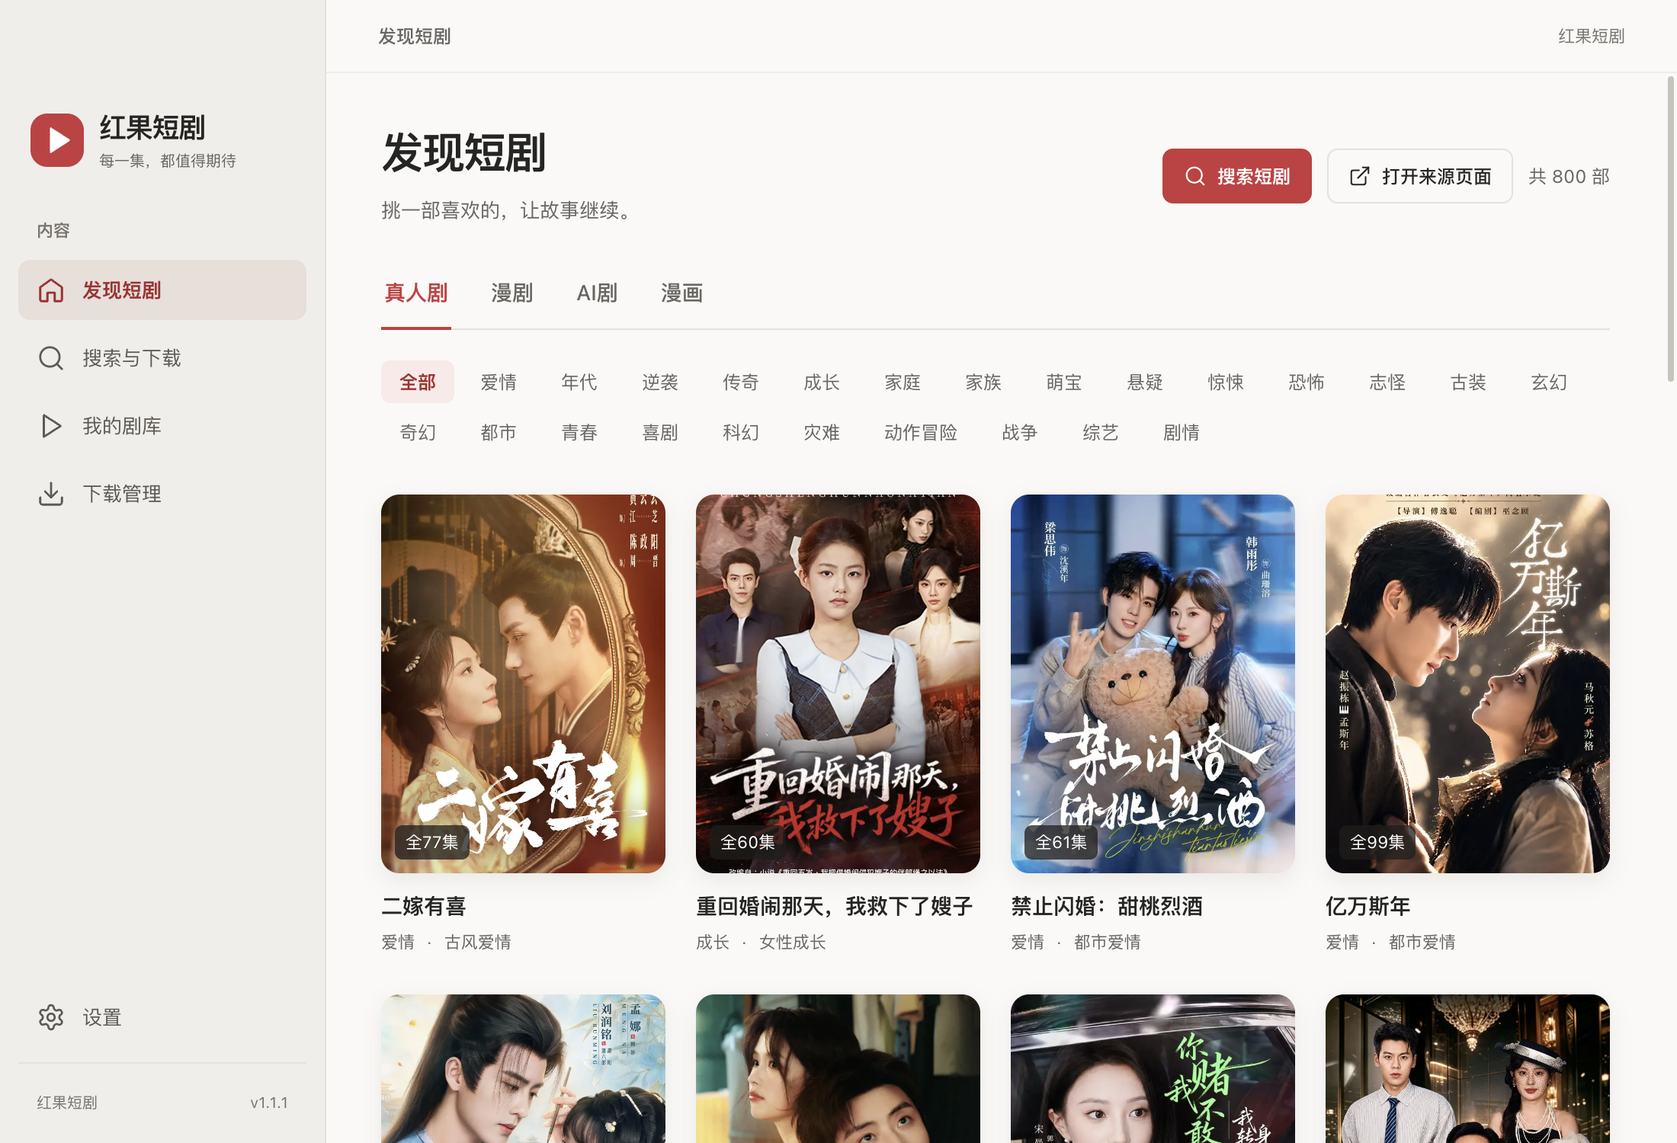
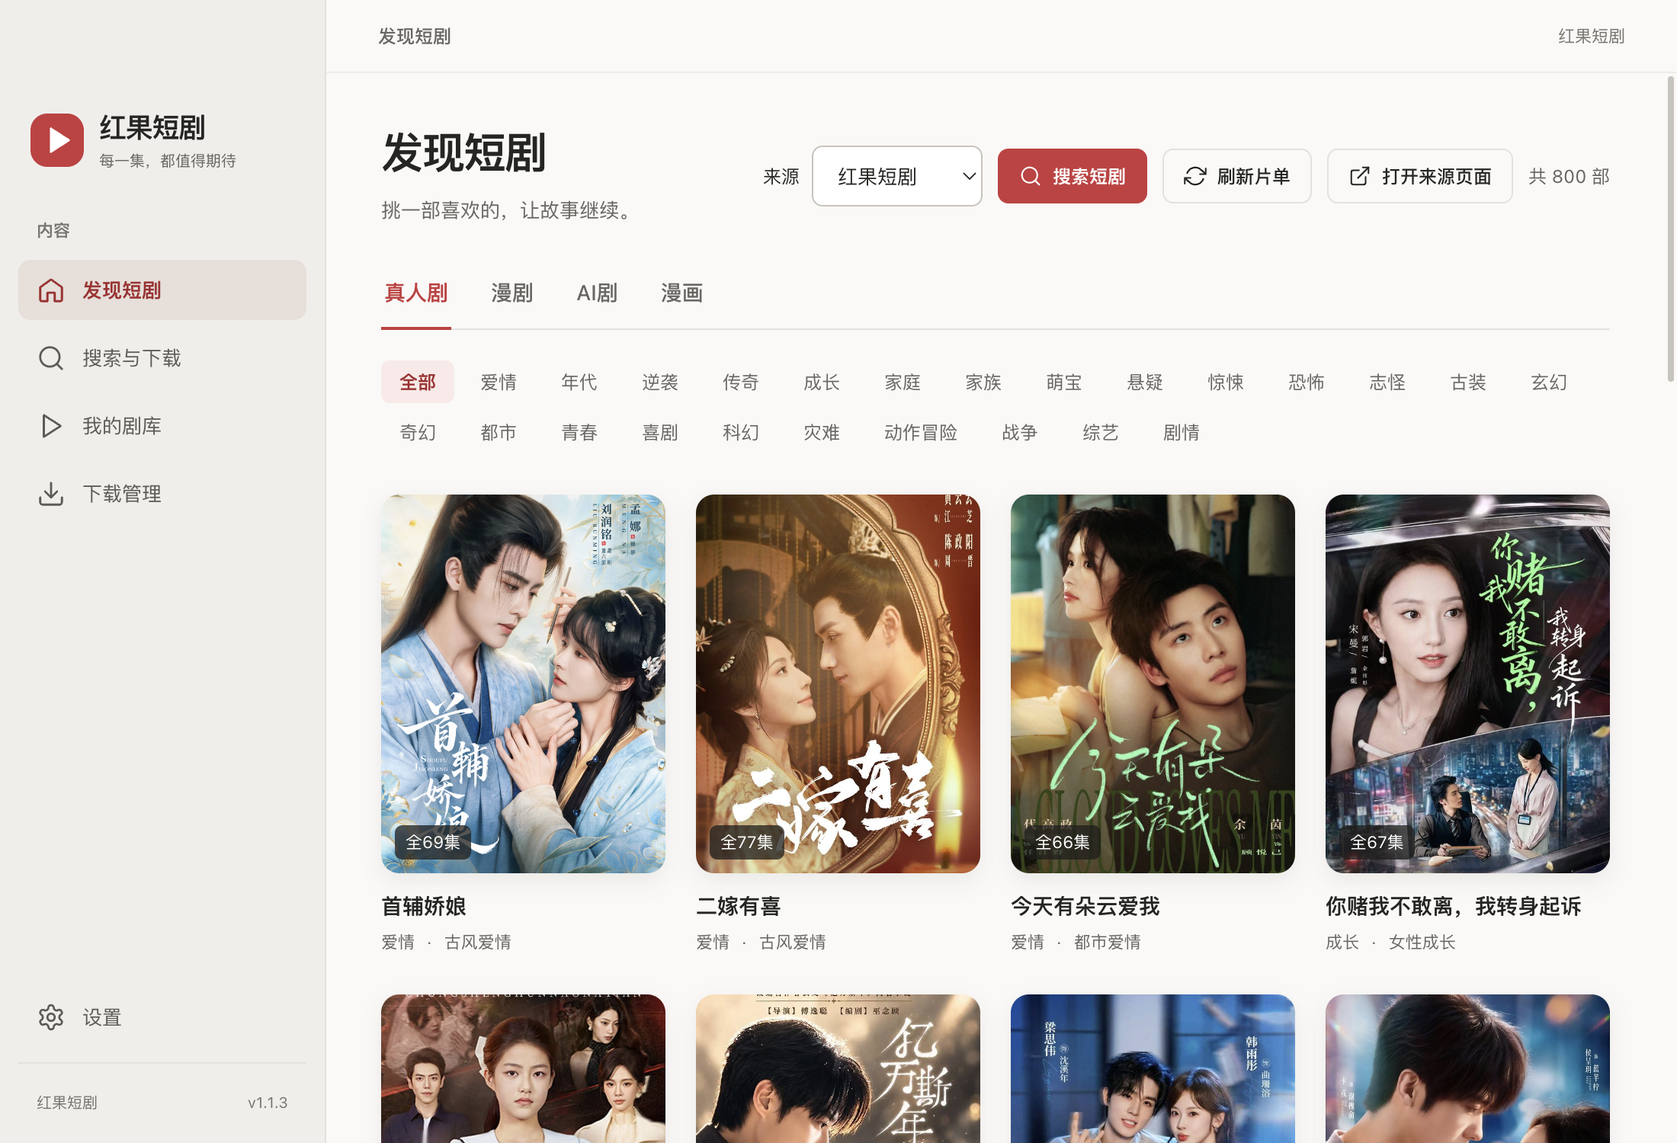
Present Mac app with detailed product guide and current screenshots

diff --git a/README.md b/README.md
@@ -1,43 +1,154 @@
-# 红果短剧 Mac版
+<p align="center">
+  <img src="build/icon.png" alt="红果短剧 Mac 应用图标" width="112" height="112">
+</p>
 
-面向 Apple Silicon Mac 的开源短剧桌面工具，基于 Electron、React 和 Node.js。
-支持红果与西饭两个独立来源，浏览、搜索、按集下载、播放与本地文件管理。
-网页未提供片源的分集会自动尝试本地签名的 App 接口与二次取址。
-不依赖第三方签名服务器或账号 Cookie；可用性仍取决于源服务。
+<h1 align="center">红果短剧 · Mac 短剧播放器与下载器</h1>
 
-这是社区修改版本，**不是红果官方客户端，也未获平台官方背书**。
-视频清晰度取决于接口返回的片源，不承诺固定分辨率。
+<p align="center">
+  在 Mac 上发现短剧、按集下载、接着观看，把已下载的分集合并为一个视频。
+</p>
 
-[下载 Mac 安装包](https://github.com/jackotom/hongguo-drama-mac/releases/latest) · [项目源码](https://github.com/jackotom/hongguo-drama-mac) · [修改声明](NOTICE) · [GPL-3.0](LICENSE)
+<p align="center">
+  <a href="https://github.com/jackotom/hongguo-drama-mac/releases/tag/v1.1.3"><img alt="版本 1.1.3" src="https://img.shields.io/badge/release-v1.1.3-c8383d?style=flat-square"></a>
+  <img alt="macOS 13 或更新版本" src="https://img.shields.io/badge/macOS-13%2B-252523?style=flat-square">
+  <img alt="Apple Silicon arm64" src="https://img.shields.io/badge/Apple_Silicon-arm64-252523?style=flat-square">
+  <a href="LICENSE"><img alt="GPL-3.0 许可证" src="https://img.shields.io/badge/license-GPL--3.0-555555?style=flat-square"></a>
+  <a href="https://github.com/jackotom/hongguo-drama-mac/releases/tag/v1.1.3"><img alt="v1.1.3 Developer ID 签名并通过 Apple 公证" src="https://img.shields.io/badge/v1.1.3-Developer_ID_%2B_Notarized-33745c?style=flat-square"></a>
+</p>
 
-![Mac 浏览界面](docs/screenshots/macos-browse.png)
+<p align="center">
+  <a href="https://github.com/jackotom/hongguo-drama-mac/releases/latest"><strong>下载 Mac 版</strong></a> ·
+  <a href="https://github.com/jackotom/hongguo-drama-mac">查看源码</a> ·
+  <a href="https://github.com/jackotom/hongguo-drama-mac/issues">反馈问题</a> ·
+  <a href="#安装与开始使用">安装说明</a>
+</p>
 
-## 功能
+**红果短剧**是一款面向 Apple Silicon 的开源 Mac 短剧播放器与下载器。红果与西饭作为两个独立来源，提供分类浏览、剧名搜索、选集下载和本地剧库；播放进度、下载队列与合并导出都在同一个桌面应用里管理。
 
-- **浏览**：按分类与题材查看剧集，分页浏览，打开详情查看集数。
-- **搜索**：按剧名查找，或粘贴分享链接、剧集 ID 解析。
-- **按集下载**：选择单集、多集或区间，管理并发、暂停和失败重试。
-- **播放**：在线播放与本地播放，支持连播、进度记录及兼容转码。
-- **合并**：编码参数一致时快速拼接；混合 H.264/HEVC 等分集先统一编码再合并。
-- **清理**：查看磁盘占用，删除单集、整部剧及转码缓存。
-- **代理**：提供跟随系统、手动代理与直连设置。
+这是社区维护的修改版本，**不是红果或西饭官方客户端，也未获平台官方背书**。Apple 公证是发行包的安全检查，不代表 App Store 审核或内容授权。
 
-明文片源按需流式加载；App 加密片源通过内置 FFmpeg 准备，临时文件随后清理。
-自动选择 H.264/HEVC 兼容轨道，不使用不受支持的 ByteVC2。分集缓存 60 秒，播放地址缓存 30 秒，同一请求合并处理。
-以上是当前代码具备的功能。网络服务与片源状态会变化，实测范围见下文。
+![红果短剧 Mac 播放器与下载器：v1.1.3 红果来源的分类、题材和海报目录](docs/screenshots/macos-browse.png)
 
-## 环境要求
+<p align="center"><sub>v1.1.3 实际应用界面 · 红果来源</sub></p>
 
-| 用途 | 要求 |
+## 安装与开始使用
+
+需要 **macOS 13 或更新版本、Apple Silicon（M 系列）Mac**。当前发行包为 arm64，应用已内置所需媒体工具，使用时无需安装 Node.js、Homebrew 或 FFmpeg。
+
+1. 打开 [最新版本下载页](https://github.com/jackotom/hongguo-drama-mac/releases/latest)，在 **Assets** 中下载 `.dmg` 安装包。当前版本文件名为 `Hongguo-1.1.3-mac-arm64.dmg`。
+2. 打开 DMG，把「红果短剧」拖入「应用程序」，再从「应用程序」启动。
+3. 在「设置」中选择下载目录；进入「发现短剧」选择来源，或在「搜索与下载」中查找剧名，打开详情后选择分集。
+
+**正式 v1.1.3 发行包已完成 Developer ID 签名与 Apple 公证。** 应用与 DMG 均已装订公证票据；应用启用了运行时加固和可信时间戳。发行页同时提供应用源码、FFmpeg/x264 对应源码及 `SHA256SUMS.txt`，方便核对下载文件。
+
+## 从发现短剧到本地剧库
+
+| 你要做的事 | 应用里的操作 |
 |---|---|
-| 运行 Mac 应用 | Apple Silicon（M 系列），macOS 13 或更新版本 |
-| 从源码构建 | Node.js 22.12 或更新版本、npm、Apple Command Line Tools、pkg-config |
-| 网络功能 | 能访问相关平台接口及媒体地址 |
+| 找一部剧 | 按来源、分类与题材浏览海报，翻页查看目录，或直接搜索剧名。 |
+| 只下载想看的集数 | 在详情中选择单集、多集或输入区间；例如 `1-10`、`1,3,5`。锁定集自动跳过。 |
+| 管理下载进度 | 在下载管理中查看排队、进行中、完成和失败状态，暂停任务、重试失败项；并发数可在设置中调整。 |
+| 接着上次看 | 内置播放器记录分集和播放位置，支持本地播放、在线播放与自动连播。 |
+| 导出一个完整文件 | 把同一部剧已下载的分集合并为 MP4，选择快速合并或 H.264 兼容合并。 |
+| 整理磁盘空间 | 查看文件占用，删除单集或整部剧，清理转码缓存；也可扫描下载目录补登记已有文件。 |
 
-本分支提供 arm64 构建；尚未提供 Intel Mac 构建。
-应用运行时不需要安装 Node.js、Homebrew 或 FFmpeg。
+### 先看，再决定下载
 
-## 本地构建
+在「我的剧库」中，点击尚未下载且未锁定的分集可尝试在线播放，双击加入下载队列。开启连播后，未下载的可用分集会转为在线播放；锁定分集会跳过。
+
+在线播放不保存到下载目录。部分片源需要先准备临时媒体文件，应用会在使用后清理。播放地址和可用清晰度由来源服务决定；遇到不兼容的媒体，可使用内置兼容转码。
+
+播放器快捷键：`空格` 播放或暂停，`←` / `→` 后退或前进 5 秒，`↑` / `↓` 上一集或下一集，`A` 切换连播。
+
+### 下载后，按需要合并
+
+**快速合并**适合编码参数一致的分集，可直接拼接；遇到混合 H.264/HEVC 等情况，应用会先统一编码再合并，因此不一定能直接保留原编码。**兼容合并**统一输出 H.264，适合需要更广泛播放兼容性的场景，处理时间也更长。
+
+合并只包含已经下载的分集，不会自动补齐缺集。建议先在下载管理中核对完成状态，再导出。
+
+## 两个独立来源，清楚的可用范围
+
+![红果短剧 Mac 下载器：v1.1.3 西饭独立来源与真实剧集目录](docs/screenshots/macos-xifan.png)
+
+<p align="center"><sub>v1.1.3 实际应用界面 · 西饭来源</sub></p>
+
+| 来源 | 当前支持 | 使用边界 |
+|---|---|---|
+| **红果**（默认） | 分类与题材浏览、搜索、分享链接或剧集 ID 解析、可用分集播放与下载。 | 网页未提供片源时，会尝试补充接口取址；仍以服务实际返回为准。 |
+| **西饭** | 独立目录、分页浏览、搜索、已开放分集播放与下载。 | 保留服务端锁定状态；锁定集不可选择、播放、转码或下载。 |
+
+两个来源的文件分目录保存，同名剧集不会互相覆盖。应用**不提供解锁功能**，也不会请求解锁或广告奖励接口；平台显示可看，不代表此应用必然能取得相同片源。
+
+“漫画”是图文阅读内容，不是视频；需要视频类内容时，请选择“漫剧”。
+
+## 当前版本与验证范围
+
+[**v1.1.3 · 2026-10-07**](https://github.com/jackotom/hongguo-drama-mac/releases/tag/v1.1.3) 新增西饭独立来源，修复漫画页切回真人剧时的目录阻塞，并完善混合编码分集的合并流程。
+
+当前版本已检查目录与来源切换、西饭下载和锁定边界、混合编码合并，以及正式包的签名公证。**这些结果来自有限样本，不代表所有剧集、清晰度或网络环境都能得到同样结果。**
+
+<details>
+<summary>查看具体样本与验证结果</summary>
+
+| 检查项 | 已验证结果 |
+|---|---|
+| 来源与目录切换 | 红果目录恢复加载，来源切换通过；西饭连续两页各返回 30 部剧，搜索样本返回 10 条。 |
+| 西饭锁定边界 | 80 集样本保留 2 集锁定；下载、播放与兼容转码入口拒绝锁定集。 |
+| 西饭下载与媒体加载 | 一集样本下载完成，约 34 MB；读取到 1080 × 1920、50.8 秒的媒体信息，离屏加载时保持暂停。 |
+| 混合编码合并 | 两个实际 H.264/HEVC 分集合并后共 153.525 秒，交界处解码检查无错误。 |
+| 正式发行包 | 应用与 DMG 公证结果均为 Accepted，签名和票据装订验证通过；4 个发行附件的远端大小及 SHA256 与本地一致。 |
+
+</details>
+
+**尚未覆盖：**本轮未进行有声播放或人工观看验收，未对整部剧重新做全量合并，也未验收 Intel Mac 或 Windows。公证和签名检查已完成，但尚未在启用 Gatekeeper 的独立环境中复测安装体验。
+
+## 常见问题
+
+<details>
+<summary><strong>可以在 Intel Mac 或 Windows 上使用吗？</strong></summary>
+
+本分支目前只提供 Apple Silicon 的 Mac 安装包，没有发布 Intel Mac 构建。仓库保留 Windows 构建配置，但本分支未重新测试 Windows，不将其列为已支持的发行平台。
+
+</details>
+
+<details>
+<summary><strong>为什么有的剧集锁定、无法下载，或者清晰度不同？</strong></summary>
+
+可用分集、播放地址与分辨率取决于来源服务。西饭锁定集会保留锁定标记，选集和连播会跳过；应用不提供解锁，也不承诺付费内容可用或固定 1080p。红果补充取址同样不保证对每部剧有效。
+
+</details>
+
+<details>
+<summary><strong>下载失败或目录加载不出来，先检查什么？</strong></summary>
+
+先确认网络能访问来源平台，再检查「设置」中的代理模式：跟随系统、手动指定或强制直连。手动代理支持 HTTP/HTTPS；代理设置与实际网络不符可能导致取址或下载失败。适当降低下载并发数后重试，避免触发来源限流。
+
+如果持续失败，请在 [Issues](https://github.com/jackotom/hongguo-drama-mac/issues) 提供应用版本、macOS 版本、来源、操作步骤和错误提示。截图及日志请先移除账号信息、Cookie、代理凭据与个人文件路径。
+
+</details>
+
+<details>
+<summary><strong>视频、任务和播放记录保存在哪里？</strong></summary>
+
+视频保存到「设置」里选择的下载目录，按来源与剧名组织。设置、任务和播放记录默认位于 `~/Library/Application Support/hongguo-downloader/`；若自行通过启动参数指定数据目录，则以指定目录为准。
+
+在线播放不等于下载完成。想长期保留文件，请使用下载功能；清理文件和清理转码缓存是不同操作，删除前请核对应用提示。
+
+</details>
+
+<details>
+<summary><strong>源码构建和正式安装包的签名有什么不同？</strong></summary>
+
+正式 v1.1.3 发行包经过 Developer ID 签名与 Apple 公证。默认源码构建使用 ad-hoc 签名，不会自动使用个人开发者证书或提交公证。自行构建的应用可能需要在「系统设置 → 隐私与安全性」确认打开；请先核对来源，无需全局关闭 Gatekeeper。
+
+</details>
+
+## 从源码构建 Mac 版
+
+<details>
+<summary>展开构建步骤、产物位置与 FFmpeg 对应源码说明</summary>
+
+应用使用 **Electron + React + Node.js**。构建需要 Node.js **22.12 或更新版本**、npm、Apple Command Line Tools、`pkg-config`，以及可用的 `make`、`git`、`curl`。构建脚本不会自动安装这些系统依赖。
 
 ```sh
 git clone https://github.com/jackotom/hongguo-drama-mac.git
@@ -46,85 +157,40 @@ npm ci
 npm run build:mac
 ```
 
-构建会验证已有 FFmpeg / FFprobe 缓存；缺少匹配缓存时，从固定且经过 SHA256 校验的 FFmpeg/x264 源码自行编译，
-再生成前端、arm64 应用与 DMG。首次构建需要联网下载依赖与源码，编译耗时数分钟。构建脚本不会自动安装系统依赖。
+构建会验证已有 FFmpeg / FFprobe 缓存；缺少匹配缓存时，从固定且经过 SHA256 校验的 FFmpeg/x264 源码编译，然后生成前端、arm64 应用和 DMG。首次构建需联网获取依赖和源码，编译可能耗时数分钟。
 
-- 应用：`dist/mac-arm64/红果短剧.app`
-- 磁盘映像：`dist/红果短剧-1.1.3-mac-arm64.dmg`
-- 仅生成应用：`npm run build:mac:dir`
-- 开发模式：`npm run dev`
-
-正式安装包与对应源码见 [Releases](https://github.com/jackotom/hongguo-drama-mac/releases)。具体签名、公证和验收状态见对应版本说明。
-
-## 签名与应用数据
-
-本地默认构建采用 **ad-hoc 签名**，不会自动使用你的 Developer ID 或申请 Apple 公证。
-macOS 可能要求在“系统设置 → 隐私与安全性”确认打开。
-请先核对来源，无需全局关闭 Gatekeeper。
-
-设置、任务和播放记录保存在：
-`~/Library/Application Support/hongguo-downloader/`（通过启动参数指定目录时以指定目录为准）。
-视频保存到应用设置中选择的下载目录。
-
-## 1.1.3 更新与验证（2026-10-07）
-
-- 漫画切回真人剧不再被浏览器队列阻塞；新版实际切回显示 24 部，约 82 ms（含目录缓存）。
-- 西饭真实目录两页各 30 部、搜索 10 条；目标 80 集保留 2 集锁定，伪造未锁定标志也不能提交下载。
-- 西饭首集离屏元信息 1080×1920、50.8 秒，保持暂停；下载 34,081,368 字节完成。
-- 混合 H.264/HEVC 实际分集标准化合并，153.525 秒边界无错误解码；未重跑整部 72 集。
-- 正式应用 Developer ID 签名、运行时加固、可信时间戳与 Apple 公证通过；公证日志无问题，票据已装订。
-
-## 历史验证范围（1.1.2 及之前）
-
-以下是本次实际检查结果，不代表对所有剧集或全部网络场景的保证。
-
-| 检查 | 结果 |
+| 用途 | 命令或产物 |
 |---|---|
-| 浏览列表 | 返回 24 条剧集 |
-| 剧集解析 | 目标剧集解析出 77 集 |
-| 首集下载及媒体检查 | 20,627,462 字节；177.37 秒；H.264 / AAC；720 × 1280 |
-| Chromium 离屏视频加载 | `readyState = 4`，未执行播放 |
-| 搜索 | 返回 10 条，包含目标剧集 |
-| VideoToolbox | 静音黑帧转码成功 |
-| Mac 回归检查 | 7 项通过 |
-| 分集性能对照 | 同一部 77 集，7323 ms → 540 ms；缓存命中不足 1 ms |
-| 流式在线播放载入 | 第 3 集准备 346 ms、元信息 641 ms；准备阶段媒体字节为 0，保持暂停 |
-| App 源取址 | 同一部网页仅开放前 3 集的剧，第 4、5 集在 Electron 中取得 HEVC 地址与有效密钥 |
-| App 源媒体 | 第 4、5 集最终包取址、解密、Chromium 离屏载入通过，均为 720p / HEVC / AAC；载入约 2.82s / 2.44s，保持暂停 |
-| 故障回归 | 缓存、Range、取消、断流、任务去重、转码合并、UI竞态及写入中断检查通过 |
+| 开发模式 | `npm run dev` |
+| 仅生成 Mac 应用 | `npm run build:mac:dir` |
+| 应用产物 | `dist/mac-arm64/红果短剧.app` |
+| v1.1.3 DMG | `dist/红果短剧-1.1.3-mac-arm64.dmg` |
 
-最终五页界面已检查；1.1.2 arm64 应用独立启动，内置工具定位正常，ad-hoc 签名与 DMG 校验通过。
-离屏加载成功不等于用户已观看验收；本次没有通过播放演示视频进行验证。
-Windows 构建配置仍保留，但此分支未重新测试 Windows。
+### FFmpeg 的准确对应源码
 
-## FFmpeg 与许可证
+Mac 包内置的 FFmpeg / FFprobe 基于 **FFmpeg 9.0.2** 与 **x264 `b35605ace3ddf7c1a5d67a2eb553f034aef41d55`** 的未修改源码编译。此构建为 **GPLv3-or-later**，仅静态链接 x264，保留 VideoToolbox，未启用 `nonfree`；动态依赖仅为 macOS 系统库，不依赖使用者的 Homebrew 环境。
 
-应用整体保留 **GPL-3.0**。源码沿用两层上游：
+[对应版本的 Release](https://github.com/jackotom/hongguo-drama-mac/releases/tag/v1.1.3) 附有**应用源码 ZIP**以及独立的 **FFmpeg/x264 完整对应源码包**，后者包含准确源码归档、构建脚本、清单与许可文本。只下载 GitHub 自动生成的项目源码归档，不能代替这一媒体工具对应源码包。
 
-1. 原始项目：[327044572/hongguo-downloader](https://github.com/327044572/hongguo-downloader)。
-2. 本次移植直接基于：[zhenyong97/hongguo-downloader](https://github.com/zhenyong97/hongguo-downloader)。
+- [FFmpeg 来源、源码校验值与构建说明](build/ffmpeg/MACOS-NOTICE.txt)
+- [准确版本与构建配置](build/ffmpeg/MACOS-VERSIONS.txt)
+- [FFmpeg 源码构建脚本](scripts/build-ffmpeg-source-mac.sh)
+- [FFmpeg GPLv3 许可全文](build/ffmpeg/MACOS-LICENSE.txt) · [x264 许可全文](build/ffmpeg/MACOS-X264-LICENSE.txt)
 
-本分支自 2026-10-07 增加 Mac 适配；完整修改声明见 [NOTICE](NOTICE)。
-Electron、React、axios 等组件许可见 [第三方声明](THIRD-PARTY-NOTICES.md)。
+FFmpeg 二进制不提交到 Git。重新分发编译包时，请按 GPL 要求同时提供完整对应源码及构建材料。
 
-Mac 内置 FFmpeg / FFprobe 由固定 **9.0.2** 源码与 **x264 b35605a** 编译为 arm64，
-许可为 GPLv3-or-later，仅静态链接 x264，并保留 VideoToolbox 支持，未启用 `nonfree`。
-二进制仅依赖 macOS 系统动态库，不依赖用户的 Homebrew 路径。
+</details>
 
-- [来源、校验值与源码要求](build/ffmpeg/MACOS-NOTICE.txt)
-- [准确构建配置与依赖版本](build/ffmpeg/MACOS-VERSIONS.txt)
-- [FFmpeg 许可说明](build/ffmpeg/MACOS-LICENSE.txt)
+## 上游、许可证与使用边界
 
-二进制文件不提交到 Git。向第三方分发编译包前，分发者须按 GPL 要求提供
-完整对应源码，包括 FFmpeg、静态链接依赖及构建材料。正式 Release 附有应用源码 ZIP 和 FFmpeg/x264 对应源码包。
+本项目延续上游的 **[GPL-3.0](LICENSE)** 许可，并保留修改与来源声明。Mac 分支自 2026-10-07 开始适配，详细变更见 [NOTICE](NOTICE)，组件许可见 [第三方声明](THIRD-PARTY-NOTICES.md)。
 
-## 来源与限制
+感谢以下项目提供的基础工作与参考：
 
-红果为默认来源；西饭可单独浏览、搜索与下载已开放分集。西饭未开放的集数保留锁定标记，无法选择、播放或下载；本项目不提供解锁功能。
-“漫画”是图文阅读；视频类内容请使用“漫剧”。不同来源文件分目录保存，不覆盖同名剧。
+- **[327044572/hongguo-downloader](https://github.com/327044572/hongguo-downloader)**：原始上游项目。
+- **[zhenyong97/hongguo-downloader](https://github.com/zhenyong97/hongguo-downloader)**：本次 Mac 移植的直接基础。
+- **[woshishiq1/drpys](https://github.com/woshishiq1/drpys)** 与 **[N3urda/hongguoTV](https://github.com/N3urda/hongguoTV)**：App 片源相关算法来源；准确提交与修改说明见 [算法来源声明](src/native/licenses/NOTICE.txt)。
+- **[Hululu007/drpy-node](https://github.com/Hululu007/drpy-node/tree/295f2b7047e14122d542a7736cb931e81abcf85c)**：西饭接口路径与返回结构参考；本项目独立编写适配器。
+- **Electron、React、FFmpeg 与 x264**：桌面运行、界面和媒体处理组件，许可详情见上述声明。
 
-## 使用边界
-
-仅处理你有权访问、下载或备份的内容，遵守平台条款与相关法律。
-作品版权归原平台及创作者所有，请勿用于未经授权的传播或商业盗版。
-平台接口可能调整；某次检查通过不保证后续接口、片源或账号条件保持不变。
+开源许可适用于软件，不授予剧集内容的再分发权。安装包不包含剧集媒体；作品版权归原平台及创作者所有。请仅处理你有权访问、下载或备份的内容，遵守平台条款与相关法律，勿用于未经授权的传播或商业盗版。平台接口可能调整，某次验证通过不保证后续片源持续可用。
